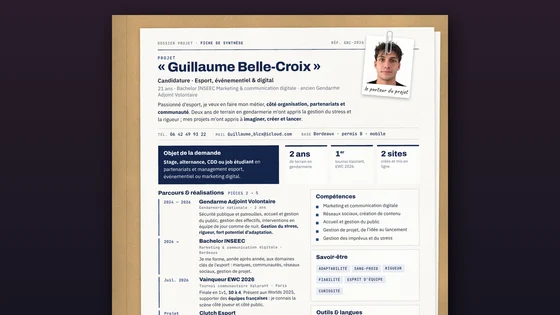
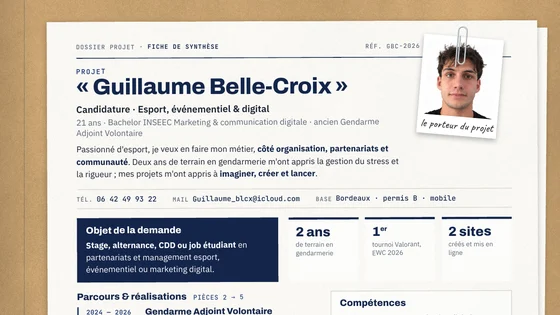
Mac : fondu entre les images de la vidéo pour un défilement continu ; vignettes PDF : haut de page
Claude-Session: https://claude.ai/code/session_012wzja54trYe7YAVCXgccqo

diff --git a/index.html b/index.html
@@ -228,10 +228,10 @@ img.ph{width:100%;object-fit:cover;display:block}
     <h2>Continuer</h2>
     <div class="tiles">
       <button class="tile" type="button" id="tile-cv" style="background-image:url(img/t_cv.webp?v=2)"><span class="bdg">3D</span><span class="t"><b>CV immersif</b></span></button>
-      <div class="tile pdf" style="background-image:url(img/t_dossier.webp?v=4);background-position:center top"><a class="cover" href="cv/CV_Guillaume_Belle-Croix_dossier.pdf?v=2" target="_blank" rel="noopener" aria-label="Voir le dossier"></a>
+      <div class="tile pdf" style="background-image:url(img/t_dossier.webp?v=5);background-position:center top"><a class="cover" href="cv/CV_Guillaume_Belle-Croix_dossier.pdf?v=2" target="_blank" rel="noopener" aria-label="Voir le dossier"></a>
         <span class="t"><b>Dossier</b><small>PDF · 7 pages</small></span>
         <span class="acts"><a href="cv/CV_Guillaume_Belle-Croix_dossier.pdf?v=2" target="_blank" rel="noopener">Voir</a><a href="cv/CV_Guillaume_Belle-Croix_dossier.pdf?v=2" download="CV_Guillaume_Belle-Croix_dossier.pdf" aria-label="Télécharger le dossier">↓</a></span></div>
-      <div class="tile pdf" style="background-image:url(img/t_fiche.webp?v=3);background-position:center top"><a class="cover" href="cv/CV_Guillaume_Belle-Croix_1page.pdf?v=4" target="_blank" rel="noopener" aria-label="Voir le CV 1 page"></a>
+      <div class="tile pdf" style="background-image:url(img/t_fiche.webp?v=4);background-position:center top"><a class="cover" href="cv/CV_Guillaume_Belle-Croix_1page.pdf?v=4" target="_blank" rel="noopener" aria-label="Voir le CV 1 page"></a>
         <span class="t"><b>CV</b><small>PDF · 1 page</small></span>
         <span class="acts"><a href="cv/CV_Guillaume_Belle-Croix_1page.pdf?v=4" target="_blank" rel="noopener">Voir</a><a href="cv/CV_Guillaume_Belle-Croix_1page.pdf?v=4" download="CV_Guillaume_Belle-Croix_1page.pdf" aria-label="Télécharger le CV">↓</a></span></div>
       <a class="tile plain" href="projets/"><span class="arr" aria-hidden="true">→</span><span class="t"><b>Mes projets</b><small>Clutch Esport · INSEEC Airlines</small></span></a>
@@ -497,15 +497,33 @@ if (USE_VID){
   };
   const viser = v => {
     if (!v.ready || v.busy) return;
-    if (v.want === v.at){ peindre(v); return; }
+    if (v.want === v.at){ if (plein && !anim){ anim = true; requestAnimationFrame(composer); } return; }
     v.busy = true; v.tgt = v.want; v.el.currentTime = (v.want + 0.5) / 30;
+  };
+  /* fondu entre l'image affichée et la nouvelle : le défilement paraît continu au lieu de sauter d'image en image */
+  const ca = document.createElement('canvas'), cb = document.createElement('canvas'), xa = ca.getContext('2d'), xb = cb.getContext('2d');
+  let fondu = 1, t0f = 0, anim = false, plein = false;
+  const DUREE = 110;
+  const composer = () => {
+    if (!started) { anim = false; return; }
+    const c = cover(), w = cb.width, h = cb.height;
+    fondu = Math.min(1, (performance.now() - t0f) / DUREE);
+    ctx.fillStyle = "#0b0a12"; ctx.fillRect(0, 0, cv.width, cv.height);
+    ctx.imageSmoothingEnabled = true; ctx.imageSmoothingQuality = "high";
+    if (plein && fondu < 1){ ctx.globalAlpha = 1; ctx.drawImage(ca, 0, 0, w, h, c.x * DPR, c.y * DPR, c.w * DPR, c.h * DPR); ctx.globalAlpha = fondu; }
+    ctx.drawImage(cb, 0, 0, w, h, c.x * DPR, c.y * DPR, c.w * DPR, c.h * DPR); ctx.globalAlpha = 1;
+    if (fondu < 1) requestAnimationFrame(composer); else anim = false;
   };
   const peindre = v => {
     if (!started || !v.ready || v !== VV[MODE]) return;
-    const c = cover(), w = v.el.videoWidth, h = v.el.videoHeight; if (!w) return;
-    ctx.fillStyle = "#0b0a12"; ctx.fillRect(0, 0, cv.width, cv.height);
-    ctx.imageSmoothingEnabled = true; ctx.imageSmoothingQuality = "high";
-    ctx.drawImage(v.el, 0, 0, w, h, c.x * DPR, c.y * DPR, c.w * DPR, c.h * DPR);
+    const w = v.el.videoWidth, h = v.el.videoHeight; if (!w) return;
+    if (cb.width !== w || cb.height !== h){ ca.width = cb.width = w; ca.height = cb.height = h; plein = false; }
+    // l'image en cours de fondu devient l'ancienne
+    if (plein){ xa.globalAlpha = 1; xa.drawImage(cb, 0, 0); }
+    xb.drawImage(v.el, 0, 0, w, h);
+    t0f = performance.now(); fondu = 0;
+    if (!plein){ plein = true; fondu = 1; }
+    if (!anim){ anim = true; requestAnimationFrame(composer); }
   };
   loadAll = () => { vget(); };
   pump = () => {};
